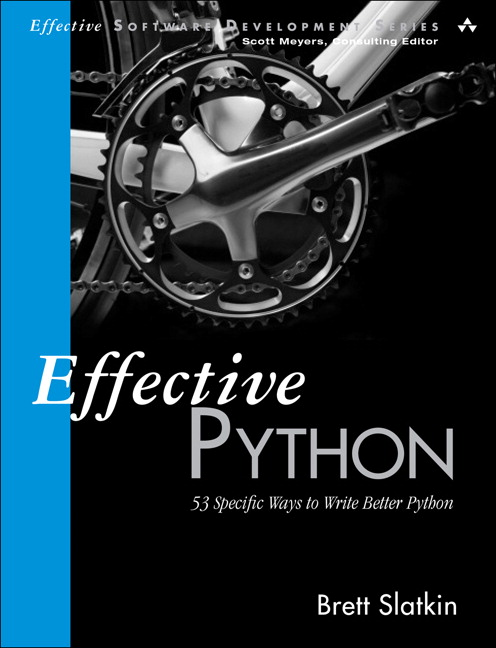
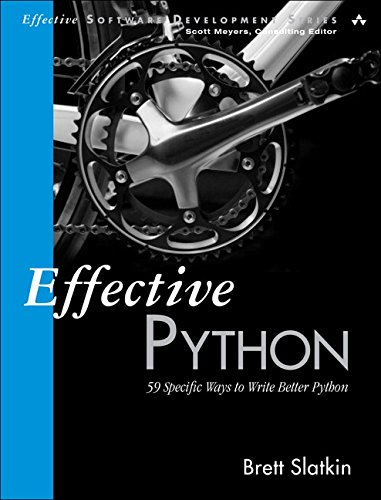
Updated with chapter info

Changed region(s): [[0.0, 0.0, 1.0, 1.0], [0.6352, 0.9, 0.9239, 0.96], [0.9239, 0.03, 0.9528, 0.06]]

diff --git a/index.html b/index.html
@@ -86,9 +86,8 @@
 </div>
 
 <h2>Preface</h2>
-<p>The <a href="http://www.python.org">Python programming language</a> has unique strengths and charms that can be hard to grasp. Programmers familiar with other languages often approach Python from a limited mindset instead of embracing its full <a href="http://en.wikipedia.org/wiki/Expressivity_(computer_science)">expressivity</a>. Newer programmers go too far in the other direction, over-using Python features that can cause big problems&nbsp;later.</p>
-<p><em>Effective Python</em> aims to provide insight into the &#8220;pythonic&#8221; way of writing programs: the best way to use Python. It builds on a fundamental understanding of the language that I assume you already have. Novice programmers will learn the best practices of Python&#8217;s capabilities. Experienced programmers will learn how to embrace the strangeness of a new tool with&nbsp;confidence.</p>
-<p>Each chapter in this book covers a broad but related set of items. Feel free to jump between items and follow your interest. Each item contains concise and specific guidance explaining how you can write Python programs more effectively. Items include advice on what to do, what to avoid, how to strike the right balance, and why this is the best&nbsp;choice.</p>
+<p>The <a href="http://www.python.org">Python programming language</a> has unique strengths and charms that can be hard to grasp. Many programmers familiar with other languages often approach Python from a limited mindset instead of embracing its full expressivity. Some programmers go too far in the other direction, over-using Python features that can cause big problems&nbsp;later.</p>
+<p><em>Effective Python</em> aims to provide insight into the <em>Pythonic</em> way of writing programs: the best way to use Python. It builds on a fundamental understanding of the language that I assume you already have. Novice programmers will learn the best practices of Python&#8217;s capabilities. Experienced programmers will learn how to embrace the strangeness of a new tool with&nbsp;confidence.</p>
 <p>My goal is to prepare you to make a big impact with&nbsp;Python.</p>
             </div>
         </div>
@@ -143,6 +142,53 @@
 </section>
 
 
+<section id="more-info" class="content">
+
+
+<div class="title-bar">
+    <div class="container">
+        <div class="row">
+            <div class="col-md-12">
+                <h1>More&nbsp;Info</h1>
+            </div>
+        </div>
+    </div>
+</div>
+
+
+<div class="page-content">
+    <div class="container">
+
+
+        <div class="row">
+            <div class="col-md-12">
+                <h2>What This Book&nbsp;Covers</h2>
+<p>Each chapter in this book contains a broad but related set of items. Feel free to jump between items and follow your interest. Each item contains concise and specific guidance explaining how you can write Python programs more effectively. Items include advice on what to do, what to avoid, how to strike the right balance, and why this is the best&nbsp;choice.</p>
+<p>The items in this book are for Python 3 and Python 2 programmers alike. Programmers using alternative runtimes like Jython, IronPython, or PyPy should also find the majority of items to be&nbsp;applicable.</p>
+<h3>Chapter 1: Pythonic&nbsp;Thinking</h3>
+<p>The Python community has come to use the adjective Pythonic to describe code that follows a particular style. The idioms of Python have emerged over time through experience using the language and working with others. This chapter covers the best way to do the most common things in&nbsp;Python.</p>
+<h3>Chapter 2:&nbsp;Functions</h3>
+<p>Functions in Python have a variety of extra features that make a programmer&#8217;s life easier. Some are similar to capabilities in other programming languages, but many are unique to Python. This chapter covers how to use use functions to clarify intention, promote reuse, and reduce&nbsp;bugs.</p>
+<h3>Chapter 3: Classes and&nbsp;Inheritance</h3>
+<p>Python is an object-oriented language. Getting things done in Python often requires writing new classes and defining how they interact through their interfaces and hierarchies. This chapter covers how to use classes and inheritance to express your intended behaviors with&nbsp;objects.</p>
+<h3>Chapter 4: Metaclasses and&nbsp;Attributes</h3>
+<p>Metaclasses and dynamic attributes are powerful Python features. However, they also enable you to implement extremely bizarre and unexpected behaviors. This chapter covers the common idioms for using these mechanisms to ensure you follow the <em>rule of least surprise</em>.</p>
+<h3>Chapter 5: Concurrency and&nbsp;Parallelism</h3>
+<p>Python makes it easy to write concurrent programs that do many different things seemingly at the same time. Python can also be used to do parallel work through system calls, subprocesses, and C-extensions. This chapter covers how to best utilize Python in these subtly different&nbsp;situations.</p>
+<h3>Chapter 6: Built-in&nbsp;Modules</h3>
+<p>Python is installed with many of the important modules that you&#8217;ll need to write programs. These standard packages are so closely intertwined with idiomatic Python that they may as well be part of the language specification. This chapter covers the essential built-in&nbsp;modules.</p>
+<h3>Chapter 7:&nbsp;Collaboration</h3>
+<p>Collaborating on Python programs requires being deliberate about how you write your code. Even if you&#8217;re working alone, you&#8217;ll want to understand how to use modules written by others. This chapter covers the standard tools and best practices that enable people to work together on Python&nbsp;programs.</p>
+<h3>Chapter 8:&nbsp;Production</h3>
+<p>Python has facilities for adapting to multiple deployment environments. It also has built-in modules that aid in hardening your programs and making them bulletproof. This chapter covers how to use Python to debug, optimize, and test your programs to maximize quality and performance at&nbsp;runtime.</p>
+            </div>
+        </div>
+    </div>
+</div>
+
+</section>
+
+
 <section id="about-the-author" class="content">
 
 
@@ -168,8 +214,7 @@
 </div>
 
 <h2>Brett&nbsp;Slatkin</h2>
-<p><em>Senior Staff Software Engineer,&nbsp;Google</em></p>
-<p>Brett is the engineering lead and co-founder of <a href="https://www.google.com/insights/consumersurveys/home">Google Consumer Surveys</a>. He formerly worked on <a href="https://developers.google.com/appengine/">Google App Engine&#8217;s</a> Python infrastructure. He is the co-creator of the <a href="https://code.google.com/p/pubsubhubbub/">PubSubHubbub</a> protocol. 9 years ago he cut his teeth using Python to manage Google&#8217;s enormous fleet of&nbsp;servers.</p>
+<p>Brett is a Senior Staff Software Engineer at Google. He is the engineering lead and co-founder of <a href="https://www.google.com/insights/consumersurveys/home">Google Consumer Surveys</a>. He formerly worked on <a href="https://developers.google.com/appengine/">Google App Engine&#8217;s</a> Python infrastructure. He is the co-creator of the <a href="https://code.google.com/p/pubsubhubbub/">PubSubHubbub</a> protocol. 9 years ago he cut his teeth using Python to manage Google&#8217;s enormous fleet of&nbsp;servers.</p>
 <p>Outside of his day job, he works on <a href="http://github.com/bslatkin">open source tools</a> and writes about software, bicycles, and other topics <a href="http://www.onebigfluke.com">on his personal website</a>. He earned his <span class="caps">B.S.</span> in Computer Engineering from Columbia University in the City of New York. He lives in San&nbsp;Francisco.</p>
 <div class="clear-images">
     <a target="_blank" href="https://twitter.com/haxor" class="btn btn-info btn-lg">Follow @haxor</a>
@@ -215,12 +260,25 @@
 <section id="posts" class="content">
     <div class="container">
 
+        <div class="row hentry" id="final-draft-done">
+            <div class="col-md-12">
+                <h2 class="entry-title">Final Draft&nbsp;Done</h2>
+
+                <div class="text-muted published-container">
+                    <abbr class="published" title="2014-11-28T10:30:00-08:00">
+                        Fri 28 November 2014
+                    </abbr>
+                </div>
+
+                <div class="entry-content"> <p>The final draft of the book is done. It&#8217;s 55,000 words, 250+ pages, 8 chapters, 59 items. Reviewers spent a lot of time looking over earlier drafts to ensure that the book will be useful. Now it&#8217;s off to production to be turned into a printable&nbsp;layout.</p> </div>
+            </div>
+        </div>
         <div class="row hentry" id="welcome-to-effective-python">
             <div class="col-md-12">
                 <h2 class="entry-title">Welcome</h2>
 
                 <div class="text-muted published-container">
-                    <abbr class="published" title="2014-08-18T09:45:00">
+                    <abbr class="published" title="2014-08-18T09:45:00-07:00">
                         Mon 18 August 2014
                     </abbr>
                 </div>
